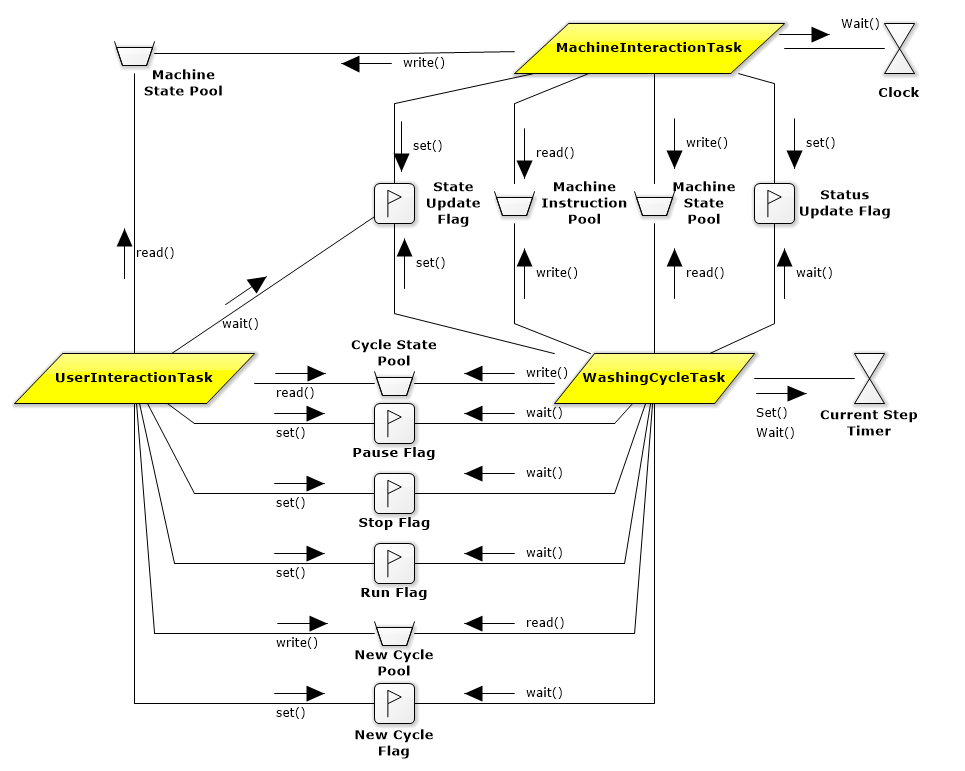
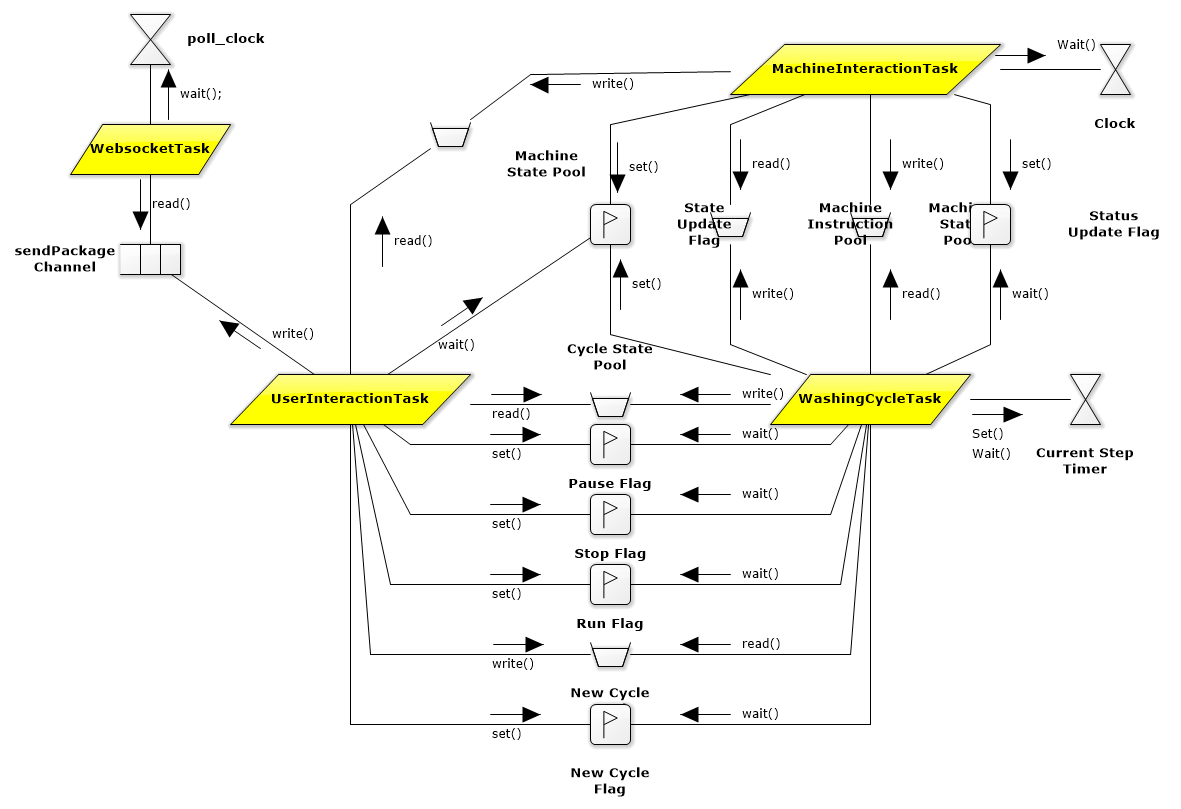
updated concurrency diagram

diff --git a/src/WebsocketTask.cpp b/src/WebsocketTask.cpp
@@ -4,7 +4,6 @@
 WebsocketTask::WebsocketTask(userInteractionTask* uit) :
     task{100, "WebsocketTask"},
     sendPackageChannel{this, "sendPackageChannel"},
-    socket_write{"socket write mutex"},
     poll_clock{ this, 100 MS, "poll"},
     uit(uit),
     wsa{2000},

diff --git a/src/WebsocketTask.h b/src/WebsocketTask.h
@@ -52,7 +52,6 @@ class WebsocketTask : public RTOS::task {
 
 		void main();
         RTOS::channel<WebsocketPackage, 10> sendPackageChannel;
-		RTOS::mutex socket_write;
 		RTOS::clock poll_clock;
 
         userInteractionTask* uit;
